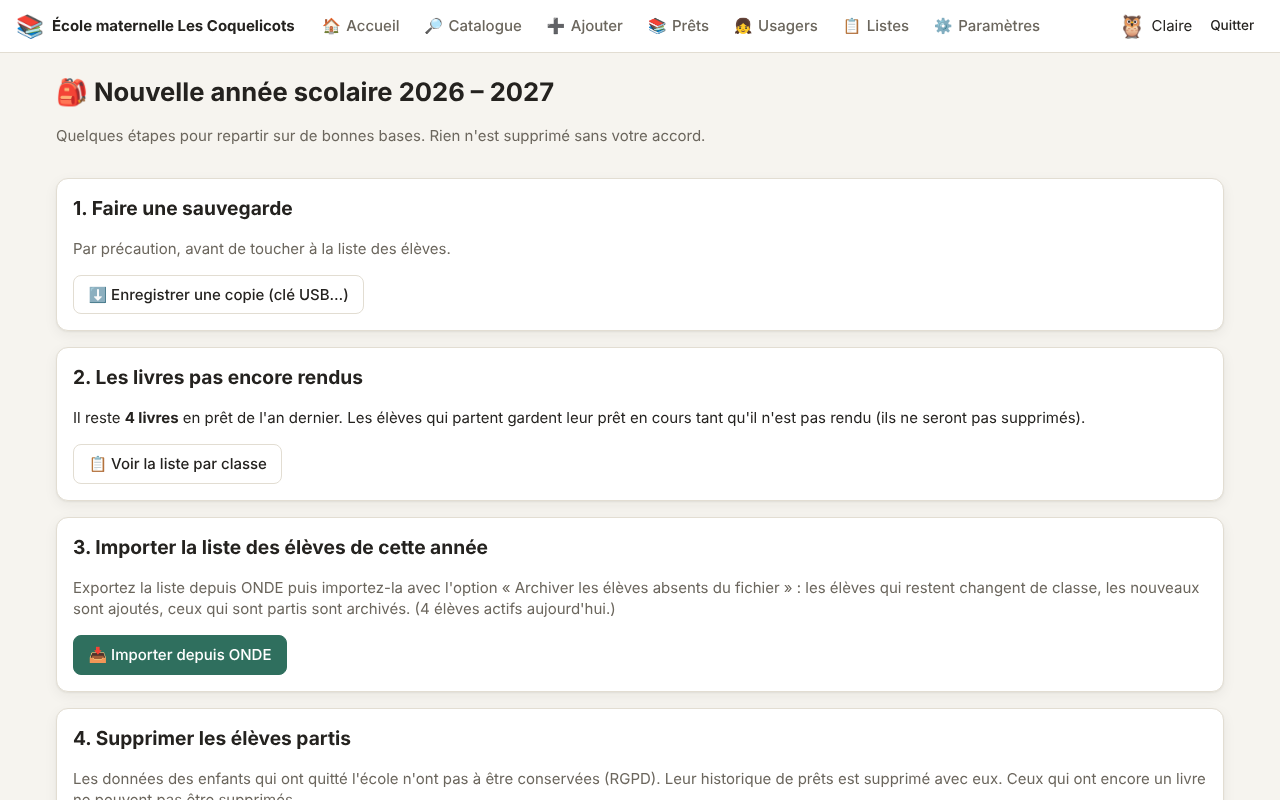
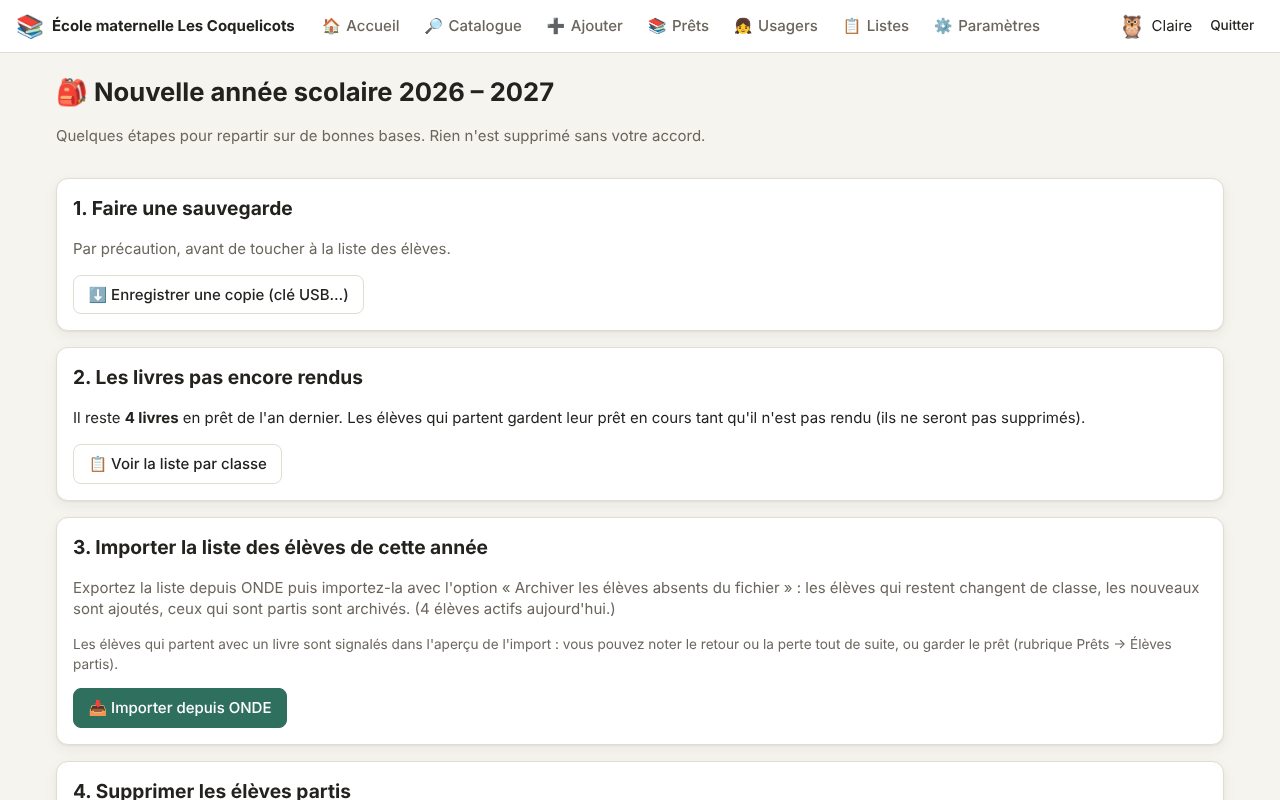
Relecture de cohérence : réservations des élèves partis, classes vides, documentation
- Un élève archivé ou supprimé voit ses réservations annulées ; un livre qui lui était
  mis de côté passe au suivant de la liste (il restait bloqué)
- L'assistant de rentrée ne propose plus de supprimer une classe dont des élèves partis
  ont encore un livre
- Message « Numéro requis » au lieu de « Code-barres requis »
- README : ce qui passe par Internet (notices, couvertures, mises à jour), élèves partis,
  aperçu avant impression ; captures d'écran à jour ; CHANGELOG 1.3.2 complété
- Tests : passage des réservations au suivant, classes vides avec livres chez des partis

Claude-Session: https://claude.ai/code/session_01DrFeSKTAcbsix7tdNERKUR

Changed region(s): [[0.0312, 0.7812, 0.9375, 0.9375], [0.0625, 0.9688, 0.9375, 1.0]]

diff --git a/test/v13.test.js b/test/v13.test.js
@@ -70,7 +70,8 @@ test('assistant de rentrée', async () => {
   let r = await call('GET', '/api/admin/rentree');
   assert.equal(r.data.archived.length, 2);
   assert.equal(r.data.pending_loans, 1);
-  assert.deepEqual(r.data.empty_classes.map((c) => c.name), ['GS 2025']); // plus aucun élève actif
+  // Zoé (partie) a encore un livre : la classe n'est pas proposée à la suppression tant qu'il n'est pas rendu
+  assert.deepEqual(r.data.empty_classes.map((c) => c.name), []);
   r = await call('POST', '/api/admin/rentree/purge', { ids: [parti, gardeLivre] });
   assert.equal(r.data.deleted, 1); // Zoé a encore un livre : gardée
   await call('POST', '/api/loans/return', { barcode: '1' });
@@ -104,4 +105,22 @@ test('import ONDE : élèves qui partent avec un livre', async () => {
   const departed = (await call('GET', '/api/loans?departed=1')).data;
   assert.ok(departed.some((l) => l.user_id === part && l.title === 'Livre emporté'));
   assert.ok((await call('GET', '/api/stats')).data.departed_loans >= 1);
+});
+
+test('élève parti : ses réservations passent au suivant', async () => {
+  const doc = (await call('POST', '/api/documents', { title: 'Très demandé', doc_type: 'album' })).data;
+  const mk = async (f) => (await call('POST', '/api/users', { role: 'eleve', first_name: f, last_name: 'RES' })).data.id;
+  const [part, suivant, autre] = [await mk('Part'), await mk('Suivant'), await mk('Autre')];
+  await call('POST', '/api/reservations', { document_id: doc.id, user_id: part }); // mis de côté pour « Part »
+  await call('POST', '/api/reservations', { document_id: doc.id, user_id: suivant }); // en attente
+  await call('POST', '/api/users/batch', { ids: [part], action: 'archive' });
+  const res = db.prepare(`SELECT user_id, status FROM reservations WHERE document_id = ? AND status IN ('attente', 'prete')`).all(doc.id);
+  assert.deepEqual(res.map((r) => [r.user_id, r.status]), [[suivant, 'prete']]);
+  const r = await call('POST', '/api/loans', { user_id: autre, barcode: doc.barcodes[0] });
+  assert.equal(r.status, 409); // gardé pour « Suivant », plus pour l'élève parti
+  assert.match(r.data.error, /Suivant/);
+  // Suppression : même passage au suivant
+  await call('POST', '/api/reservations', { document_id: doc.id, user_id: autre });
+  await call('POST', '/api/users/batch', { ids: [suivant], action: 'delete' });
+  assert.equal(db.prepare(`SELECT status FROM reservations WHERE user_id = ? AND document_id = ?`).get(autre, doc.id).status, 'prete');
 });

diff --git a/server/db.js b/server/db.js
@@ -160,6 +160,26 @@ BEGIN
   UPDATE users SET archived_at = CASE WHEN NEW.active = 0 THEN datetime('now') ELSE NULL END WHERE id = NEW.id;
 END;
 
+-- Élève archivé (parti) ou supprimé : ses réservations sont annulées, et un livre qui lui était mis de côté
+-- passe au suivant de la liste d'attente.
+CREATE TRIGGER IF NOT EXISTS users_archived_reservations AFTER UPDATE OF active ON users
+  WHEN NEW.active = 0 AND OLD.active = 1
+BEGIN
+  UPDATE reservations SET status = 'prete', ready_at = datetime('now') WHERE id IN (
+    SELECT (SELECT r2.id FROM reservations r2 WHERE r2.document_id = r.document_id AND r2.status = 'attente'
+      AND r2.user_id != NEW.id ORDER BY r2.created_at, r2.id LIMIT 1)
+    FROM reservations r WHERE r.user_id = NEW.id AND r.status = 'prete');
+  UPDATE reservations SET status = 'annulee' WHERE user_id = NEW.id AND status IN ('attente', 'prete');
+END;
+
+CREATE TRIGGER IF NOT EXISTS users_deleted_reservations BEFORE DELETE ON users
+BEGIN
+  UPDATE reservations SET status = 'prete', ready_at = datetime('now') WHERE id IN (
+    SELECT (SELECT r2.id FROM reservations r2 WHERE r2.document_id = r.document_id AND r2.status = 'attente'
+      AND r2.user_id != OLD.id ORDER BY r2.created_at, r2.id LIMIT 1)
+    FROM reservations r WHERE r.user_id = OLD.id AND r.status = 'prete');
+END;
+
 -- Couvertures ajoutées à la main (photo, image du PC), stockées dans la base pour fonctionner sans Internet.
 CREATE TABLE IF NOT EXISTS covers (
   document_id INTEGER PRIMARY KEY REFERENCES documents(id) ON DELETE CASCADE,

diff --git a/server/routes/admin.js b/server/routes/admin.js
@@ -178,6 +178,7 @@ export default function (r, { backupDir, appInfo, installUpdate, checkUpdate, ch
       empty_classes: db.prepare(`SELECT c.id, c.name FROM classes c
         WHERE NOT EXISTS (SELECT 1 FROM users u WHERE u.class_id = c.id AND u.active = 1)
           AND NOT EXISTS (SELECT 1 FROM loans l WHERE l.class_id = c.id AND l.returned_at IS NULL)
+          AND NOT EXISTS (SELECT 1 FROM loans l JOIN users u ON u.id = l.user_id WHERE u.class_id = c.id AND l.returned_at IS NULL)
         ORDER BY c.name`).all(),
     };
   });
@@ -201,7 +202,8 @@ export default function (r, { backupDir, appInfo, installUpdate, checkUpdate, ch
   r.post('/api/admin/rentree/classes', admin, ({ db, body }) => {
     const del = db.prepare(`DELETE FROM classes WHERE id = ?
       AND NOT EXISTS (SELECT 1 FROM users u WHERE u.class_id = classes.id AND u.active = 1)
-      AND NOT EXISTS (SELECT 1 FROM loans l WHERE l.class_id = classes.id AND l.returned_at IS NULL)`);
+      AND NOT EXISTS (SELECT 1 FROM loans l WHERE l.class_id = classes.id AND l.returned_at IS NULL)
+      AND NOT EXISTS (SELECT 1 FROM loans l JOIN users u ON u.id = l.user_id WHERE u.class_id = classes.id AND l.returned_at IS NULL)`);
     let n = 0;
     for (const id of body.ids ?? []) n += Number(del.run(Number(id)).changes);
     return { deleted: n };

diff --git a/server/routes/documents.js b/server/routes/documents.js
@@ -424,7 +424,7 @@ export default function (r, deps) {
     const state = body.state ?? c.state;
     if (!COPY_STATES.includes(state)) throw new HttpError(400, 'État inconnu');
     const barcode = String(body.barcode ?? c.barcode).trim();
-    if (!barcode) throw new HttpError(400, 'Code-barres requis');
+    if (!barcode) throw new HttpError(400, 'Numéro requis');
     db.prepare('UPDATE copies SET state = ?, barcode = ?, notes = ? WHERE id = ?')
       .run(state, barcode, body.notes ?? c.notes, c.id);
     return { ok: true };

diff --git a/README.md b/README.md
@@ -17,7 +17,7 @@ Gratuite, en français, sans abonnement, et les données restent sur l'ordinateu
 | 📚 **Catalogue** | Ajout d'un livre en tapant son ISBN : la fiche arrive de la **BnF**. Cote calculée automatiquement, numéro d'exemplaire simple (1, 2, 3…), couverture, thèmes, mots-clés. |
 | 🛎 **Prêts** | Comptoir **sans douchette** : on touche l'avatar de l'enfant, on tape le numéro ou le titre du livre. Retards, réservations, prêt à toute une classe, fin d'année. |
 | 🧒 **Élèves** | Import depuis **ONDE**, connexion par **avatar** (sans mot de passe), thèmes en gros boutons, avis en frimousses 😍🙂😐. |
-| 💾 **Sécurité** | Sauvegarde toutes les 30 minutes et à chaque fermeture, copie sur **clé USB**, assistant de rentrée. Rien n'est envoyé sur Internet (sauf l'ISBN pour trouver la notice). |
+| 💾 **Sécurité** | Sauvegarde toutes les 30 minutes et à chaque fermeture, copie sur **clé USB**, assistant de rentrée. **Aucune donnée d'élève ne quitte l'ordinateur.** |
 | 🪟 **Windows** | Un installateur, ou un **zip sans installation** pour les PC qui bloquent les installations. Rien d'autre à installer. |
 
 ## 📥 Télécharger et installer
@@ -72,11 +72,13 @@ Au premier lancement, l'application demande le nom de l'école et crée le compt
 - **Prêt à toute une classe** (lot de livres), **réservations** (par un adulte ou « Je le veux ! » de l'élève),
   livre mis de côté au retour.
 - **Retards** par classe et **mots aux familles** imprimables ; **fin d'année** : listes par classe et date de retour commune.
+- **Élèves partis avec un livre** : signalés à l'import ONDE (« Rendu » / « Perdu »), rubrique dédiée avec mots pour les familles.
 - Durées et limites par profil, prolongations, déclaration de perte.
 
 ### Élèves et classes
 - **Import ONDE** (ou CSV) avec aperçu : nouvelles classes, changements de classe, élèves partis archivés.
 - **Fiche classe** et **fiche élève** imprimables, avec le **carnet de lecteur** de l'année.
+- **Aperçu avant impression** (A4, portrait ou paysage) pour toutes les impressions.
 - Connexion des élèves **sans mot de passe** : classe → avatar → code secret en pictogrammes (facultatif) ;
   **cartes de connexion** imprimables.
 - Espace élève pensé pour la maternelle : thèmes en gros boutons, couvertures, « Mes livres »,
@@ -85,6 +87,8 @@ Au premier lancement, l'application demande le nom de l'école et crée le compt
 
 ### Sécurité des données
 - Les données restent **sur l'ordinateur** (`Documents\BCD`), rien n'est ouvert sur le réseau.
+  Internet ne sert qu'à chercher les notices par ISBN (BnF, Open Library, Google Books), afficher les couvertures
+  et vérifier les mises à jour : aucune donnée d'élève n'est envoyée.
 - **Sauvegarde automatique** toutes les 30 minutes pendant l'utilisation et à chaque fermeture, **copie sur clé USB**,
   restauration en un clic. Chaque modification est enregistrée immédiatement : une coupure de courant ne fait pas perdre la journée.
 - **Assistant de rentrée** : suppression des données des élèves partis (RGPD).

diff --git a/CHANGELOG.md b/CHANGELOG.md
@@ -13,6 +13,10 @@ Toutes les évolutions notables de **BCD**. Les numéros suivent la forme `majeu
   à imprimer. Rappel sur l'accueil et dans l'assistant de rentrée.
 
 ### Corrigé
+- **Réservations d'un élève parti** : quand un élève est archivé ou supprimé, ses réservations sont annulées
+  et un livre qui lui était mis de côté passe à l'enfant suivant (avant, le livre restait bloqué).
+- **Assistant de rentrée** : une classe n'est plus proposée à la suppression tant que des élèves partis
+  de cette classe ont encore un livre.
 - **Fiche classe** : un élève parti (archivé, par exemple après l'import ONDE de la rentrée) qui a encore
   un livre n'était pas affiché, alors que son livre était compté dans le total. Il apparaît maintenant
   avec la mention « parti — livre à récupérer ». Même mention dans les listes de prêts, retards et fin d'année.
